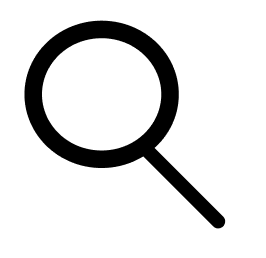
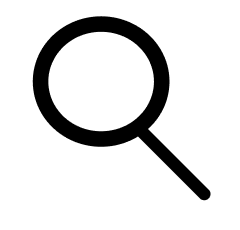
Änderungen an der startseite.css

Changed region(s): [[0.0875, 0.0609, 0.875, 0.8826]]

diff --git a/CSS/startseite.css b/CSS/startseite.css
@@ -2,57 +2,57 @@
     box-sizing: border-box;
     margin: 0;
     padding: 0;
-    font-family: Arial, sans-serif;
+    font-family: "Myanmar Text", sans-serif;
+}
+
+html, body {
+    height: 100%;
+    width: 100%;
+    margin: 0;
+    padding: 0;
 }
 
 body {
     display: flex;
     justify-content: center;
     align-items: center;
-    height: 100vh;
     background-color: #f5f5f5;
-    overflow: auto;
 }
 
 .container {
     width: 100%;
-    max-width: 1188px;
+    height: 100%;
     background-color: #fff;
     padding: 20px;
-    border-radius: 8px;
-    box-shadow: 0 0 10px rgba(0, 0, 0, 0.1);
+    border-radius: 0;
+    box-shadow: none;
+    overflow-y: auto;
 }
 
 .header {
     display: flex;
     justify-content: space-between;
     align-items: center;
-    margin-bottom: 10px;
-}
-
-.logo {
-    display: flex;
-    align-items: center;
+    margin-bottom: 20px;
 }
 
 .logo img {
-    max-width: 100%;
-    height: 70px;
+    max-height: 70px;
 }
 
 .search-container {
     display: flex;
     align-items: center;
     gap: 10px;
-    margin-bottom: 10px;
     flex-wrap: wrap;
+    width: 100%;
 }
 
 .search-wrapper {
     display: flex;
     align-items: center;
     width: 100%;
-    max-width: 499px;
+    max-width: 500px;
     height: 40px;
     border: 1px solid #ccc;
     border-radius: 8px;
@@ -70,26 +70,22 @@ body {
     border-radius: 8px;
 }
 
-.search-container .search-btn {
-    background-color: #fff;
-    border: none;
-    cursor: pointer;
-    padding: 0 10px;
-    border-radius: 8px;
-    height: 100%;
-}
-
-.search-container .search-btn img {
-    width: 20px;
-    height: 20px;
-}
-
+.search-container .search-btn,
 .search-container .filter-btn {
-    margin-left: -10px;
     background-color: #fff;
     border: none;
     cursor: pointer;
     padding: 10px;
+    border-radius: 8px;
+    height: 37px;
+}
+
+.search-container .search-btn img {
+    width: 16px;
+    height: 16px;
+    border: none;
+    background: none;
+    padding: 0;
 }
 
 .search-container .filter-btn img {
@@ -127,11 +123,11 @@ body {
 }
 
 .add-btn:hover {
-    background-color: #003366;
+    background-color: #002244;
 }
 
 .topics-container h2 {
-    background-color: #00457c;
+    background-color: #003366;
     color: #fff;
     border-radius: 8px 8px 0 0;
     padding: 20px 10px;
@@ -144,9 +140,6 @@ body {
     margin-bottom: 20px;
     padding: 20px;
     width: 100%;
-    max-width: 1188px;
-    height: auto;
-    overflow-x: auto;
 }
 
 .topics-table {
@@ -195,9 +188,8 @@ body {
     padding: 5px 10px;
     border-radius: 10px;
     font-size: 12px;
-    display: flex;
-    justify-content: center;
-    align-items: center;
+    display: inline-block;
+    text-align: center;
     width: 100px;
 }
 
@@ -231,18 +223,6 @@ body {
     width: 25px;
     height: 25px;
 }
-
-
-
-
-
-
-
-
-
-
-
-
 
 
 

diff --git a/CSS/login.css b/CSS/login.css
@@ -2,7 +2,7 @@
     box-sizing: border-box;
     margin: 0;
     padding: 0;
-    font-family: Arial, sans-serif;
+    font-family: "Myanmar Text"
 }
 
 body {
